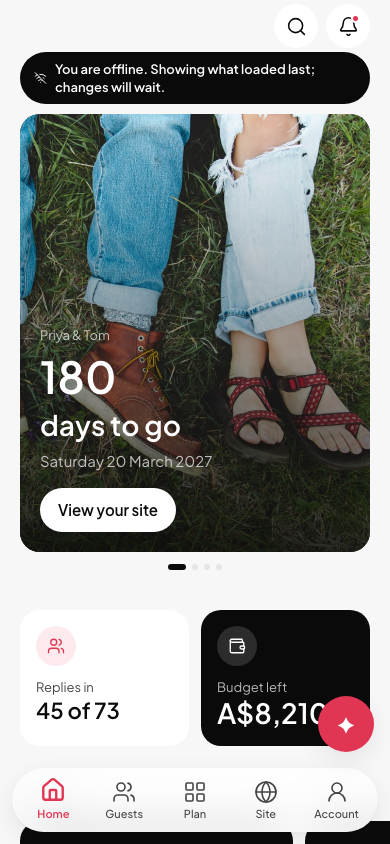
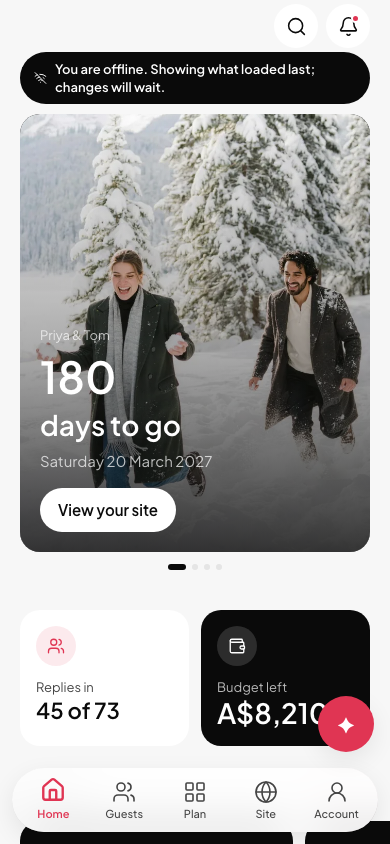
Mobile app goal 4, phase 1: one photo library, the app/ folder
The owner authorized the Cloudinary connector, so the app folder (cloud
dsr84xknv, 73 photos) was listed through the Admin API with no secret in
the terminal, and every photo was viewed as a thumbnail before assignment.
src/mobile/images.ts now names 45 slots and 45 distinct photos: each is
used once in the whole app, so nothing repeats on a screen. No todo slot
remains (the four Plan tiles, two empty states and the lock screen that
were color panels have photos). Crops rely on Cloudinary's face-aware
g_auto at the slot's ratio; the one photo with closed eyes in its focal
area was left out.

Every slot carries a `screen`, and /m/preview/images now reports "45
slots, 45 photos, no repeats" and turns a card red for any slot that
shares a photo with another on its screen (repeatedSlots()). The fixtures
build their cover, Our Story and moodboard pins from new fixture slots,
so no Cloudinary id lives anywhere in src/mobile/ but images.ts. Home
falls back to the manifest's hero slots when the couple has no photos,
instead of the universe's sample content; the couple's own photos still
lead the Home hero and the Site preview. imageUrl() percent-encodes the
accented ids. All 64 screens recaptured; MOBILE_APP.md carries the
assignment table.

diff --git a/src/mobile/images.ts b/src/mobile/images.ts
@@ -9,12 +9,20 @@
  * No Cloudinary id for a decorative slot may live anywhere else in
  * src/mobile/. /m/preview/images renders this file as a gallery.
  *
- * `todo: true` marks a slot that has no good photo yet and falls back to a
- * color panel. That list is the shopping list for the next batch.
+ * ONE LIBRARY. Every id here is one of the 73 photos in the Cloudinary
+ * folder `app` (cloud dsr84xknv), listed through the Admin API on
+ * 2026-09-21 and viewed one by one before it was assigned. Each photo is
+ * used once across the whole app, so no photo repeats on a screen; the
+ * `screen` field is what /m/preview/images checks. Crops are chosen so no
+ * face is cut (`focal`), and photos with closed eyes in the focal area were
+ * left out. The fixture stand-ins for the couple's own uploads are slots
+ * here too, so no Cloudinary id lives anywhere else in src/mobile/.
+ *
+ * `todo: true` marks a slot that has no good photo; none do now, and the
+ * gallery still shows the marker if one ever returns.
  *
  * STILLS ONLY. No component may derive motion from an id that starts with
- * DTS_. Public ids are never invented: each one is already served on the
- * marketing site or the universes page, and each was checked to resolve.
+ * DTS_. Public ids are never invented.
  */
 
 export interface ImageSlot {
@@ -23,6 +31,8 @@ export interface ImageSlot {
   alt: string;
   /** Where the slot is drawn. */
   usedIn: string;
+  /** The screen the slot is drawn on; two slots on one screen must not share an id. */
+  screen: string;
   /** The CSS pixel size the slot is drawn at, before 2x/3x. */
   size: { w: number; h: number };
   ratio: '4/5' | '4/3' | '16/9' | '1/1' | '3/2';
@@ -35,56 +45,57 @@ export interface ImageSlot {
 }
 
 export const IMAGES = {
-  /* ── Hero fallbacks (used only when the couple has no imagery and their universe has no sample) ── */
-  heroDays: { id: 'DTS_Slices_of_Summer_Mark_La_Montagne_Photos_ID2661_vb5omq', alt: 'Two friends lying in the grass at a summer wedding', usedIn: 'Home hero, days to go', size: { w: 358, h: 448 }, ratio: '4/5' },
-  heroReplies: { id: 'DTS_Like_a_Movie_Foster___Asher_Photos_ID1042_qaddk3', alt: 'A couple laughing together outdoors', usedIn: 'Home hero, replies', size: { w: 358, h: 448 }, ratio: '4/5' },
-  heroAva: { id: 'DTS_NU_NUPTIALS_Shauna_Summers_Photos_ID10310_o5dcie', alt: 'Guests dancing at a reception', usedIn: 'Home hero, from Ava', size: { w: 358, h: 448 }, ratio: '4/5' },
-  heroShare: { id: 'DTS_Tradition_Chris_Abatzis_Photos_ID9150_yiunlp', alt: 'A ceremony under trees', usedIn: 'Home hero, share your site', size: { w: 358, h: 448 }, ratio: '4/5' },
-
-  /* ── Plan hub tiles ── */
-  tileEventDetails: { id: 'DTS_Like_a_Movie_Foster___Asher_Photos_ID1042_qaddk3', alt: 'A couple laughing together outdoors', usedIn: 'Plan hub, Event details tile', size: { w: 171, h: 148 }, ratio: '4/3' },
-  tileGuests: { id: 'DTS_Slices_of_Summer_Mark_La_Montagne_Photos_ID2661_vb5omq', alt: 'Two friends lying in the grass', usedIn: 'Plan hub, Guest list tile', size: { w: 171, h: 148 }, ratio: '4/3' },
-  tileSeating: { id: 'DTS_Grand_Design_Daniel_Far%C3%B2_Photos_ID4152_auimyj', alt: 'A long dinner table set for a reception', usedIn: 'Plan hub, Seating tile', size: { w: 171, h: 148 }, ratio: '4/3' },
-  tileWeddingParty: { id: 'DTS_BANDITS_PALI_MENDEZ_Photos_ID14229_mhwb5h', alt: 'A group of friends in the evening light', usedIn: 'Plan hub, Wedding party tile', size: { w: 171, h: 148 }, ratio: '4/3' },
-  tileMoodboard: { id: 'DTS_DECADENT_Debora_Spanhol_Photos_ID12475_viqbsz', alt: 'A dessert table with cakes and fruit', usedIn: 'Plan hub, Moodboard tile', size: { w: 171, h: 148 }, ratio: '4/3' },
-  tileStyling: { id: 'DTS_Natural_Beauty_Rob_Christain_Crosby_Photos_ID2680_fnyjzd', alt: 'Someone holding a bouquet of flowers', usedIn: 'Plan hub, Styling tile', size: { w: 171, h: 148 }, ratio: '4/3' },
-  tileBeauty: { id: 'DTS_MOTHERLY_Shauna_Summers_Photos_ID10728_vz25fa', alt: 'Getting ready in the morning', usedIn: 'Plan hub, Beauty tile', size: { w: 171, h: 148 }, ratio: '4/3' },
-  tileFood: { id: 'v1779185603/DTS_Fine_Dining_Patrick_Chin_Photos_ID955_uoaegj', alt: 'A plated dinner', usedIn: 'Plan hub, Food & beverage tile', size: { w: 171, h: 148 }, ratio: '4/3' },
-  tileMusic: { id: 'DTS_PLAYER_TWO_JELLY_LUISE_Photos_ID13458_a53qq3', alt: 'A record player', usedIn: 'Plan hub, Music tile', size: { w: 171, h: 148 }, ratio: '4/3' },
-  tilePhotography: { id: 'DTS_Like_a_Movie_Foster___Asher_Photos_ID1042_qaddk3', alt: 'A couple laughing together outdoors', usedIn: 'Plan hub, Photography tile', size: { w: 171, h: 148 }, ratio: '4/3' },
-  tileGuestGifts: { id: 'DTS_SUITE_TALK_PALI_MENDEZ_Photos_ID14166_tqzysj', alt: 'A hotel suite with gifts laid out', usedIn: 'Plan hub, Guest gifts tile', size: { w: 171, h: 148 }, ratio: '4/3' },
-  tileMarketplace: { id: 'DTS_NU_NUPTIALS_Shauna_Summers_Photos_ID10310_o5dcie', alt: 'Guests dancing at a reception', usedIn: 'Plan hub, Marketplace tile', size: { w: 171, h: 148 }, ratio: '4/3' },
-  tileCeremony: { id: 'DTS_Tradition_Chris_Abatzis_Photos_ID9150_yiunlp', alt: 'A ceremony under trees', usedIn: 'Plan hub, Ceremony details tile', size: { w: 171, h: 148 }, ratio: '4/3' },
-  tileAccommodation: { id: 'DTS_Please_Do_Not_Disturb_Fanette_Guilloud_Photos_ID8854_xted4d', alt: 'A hotel room door with a do not disturb sign', usedIn: 'Plan hub, Accommodation tile', size: { w: 171, h: 148 }, ratio: '4/3' },
-  tileRegistry: { id: 'DTS_SUITE_TALK_PALI_MENDEZ_Photos_ID14166_tqzysj', alt: 'A hotel suite with gifts laid out', usedIn: 'Plan hub, Registry tile', size: { w: 171, h: 148 }, ratio: '4/3' },
-  tileHoneymoon: { id: 'v1779185631/DTS_Early_Honey_Moon_Tino_Renato_Photos_ID3576_v8vxs0', alt: 'A couple on holiday by the sea', usedIn: 'Plan hub, Honeymoon tile', size: { w: 171, h: 148 }, ratio: '4/3' },
-  tileSchedule: { id: '', alt: 'The wedding day timeline', usedIn: 'Plan hub, Schedule tile', size: { w: 171, h: 148 }, ratio: '4/3', todo: true, tone: 'neutral' },
-  tileBudget: { id: '', alt: 'Planning the budget', usedIn: 'Plan hub, Budget tile', size: { w: 171, h: 148 }, ratio: '4/3', todo: true, tone: 'neutral' },
-  tileVendors: { id: '', alt: 'Meeting a vendor', usedIn: 'Plan hub, My vendors tile', size: { w: 171, h: 148 }, ratio: '4/3', todo: true, tone: 'neutral' },
-  tileTransport: { id: '', alt: 'Guests arriving by car', usedIn: 'Plan hub, Transport tile', size: { w: 171, h: 148 }, ratio: '4/3', todo: true, tone: 'neutral' },
-
-  /* ── Keep planning cards (Home): reuse the tile images by feature; these two are extra ── */
-  keepPlanningDefault: { id: 'DTS_NU_NUPTIALS_Shauna_Summers_Photos_ID10310_o5dcie', alt: 'Guests dancing at a reception', usedIn: 'Home, keep planning card with no feature image', size: { w: 240, h: 180 }, ratio: '4/3' },
-
+  /* ── Home hero fallbacks: only when the couple has no imagery of their own ── */
+  heroDays: { id: 'hf_20260904_055316_4efc8628-77ed-4737-83bd-d0715cf99d43_eoixpp', alt: 'A couple in an arched doorway, forehead to forehead', usedIn: 'Home hero, days to go', screen: 'home', size: { w: 358, h: 448 }, ratio: '4/5', focal: '50% 30%' },
+  heroReplies: { id: 'DTS_BANDITS_PALI_MENDEZ_Photos_ID14215_bykr7b', alt: 'A couple walking hand in hand at sunset', usedIn: 'Home hero, replies', screen: 'home', size: { w: 358, h: 448 }, ratio: '4/5', focal: '50% 40%' },
+  heroAva: { id: 'hf_20260904_112950_ee43be91-2036-4b97-8ff9-f490913bfded_q6rrgk', alt: 'A couple laughing at a bar table', usedIn: 'Home hero, from Ava', screen: 'home', size: { w: 358, h: 448 }, ratio: '4/5', focal: '50% 35%' },
+  heroShare: { id: 'pin_marrakech_couple', alt: 'Friends on a rooftop at dusk with a tray of drinks', usedIn: 'Home hero, share your site', screen: 'home', size: { w: 358, h: 448 }, ratio: '4/5', focal: '50% 40%' },
+  keepPlanningDefault: { id: 'DTS_SNOWBOUND_Daniel_Farò_Photos_ID12430_hmrv0c', alt: 'A couple under a yellow blanket with mugs', usedIn: 'Home, keep planning card with no feature image', screen: 'home', size: { w: 240, h: 180 }, ratio: '4/3' },
+  /* ── Plan hub tiles (also the Home keep-planning cards, by feature) ── */
+  tileEventDetails: { id: 'DTS_ISOLA_Daniel_Farò_Photos_ID13172_fu4zfe', alt: 'Two hands and a pair of rings on a table', usedIn: 'Plan hub, Event details tile', screen: 'plan', size: { w: 171, h: 148 }, ratio: '4/3' },
+  tileSchedule: { id: 'DTS_INFLUENCER_Daniel_Farò_Photos_ID8195_hcbnri', alt: 'Planning on a laptop, phone in hand', usedIn: 'Plan hub, Schedule tile', screen: 'plan', size: { w: 171, h: 148 }, ratio: '4/3', focal: '50% 30%' },
+  tileGuests: { id: 'DTS_Tradition_Chris_Abatzis_Photos_ID9181_erzsi2', alt: 'Friends leaping over a hay bale', usedIn: 'Plan hub, Guest list tile', screen: 'plan', size: { w: 171, h: 148 }, ratio: '4/3' },
+  tileSeating: { id: 'DTS_Banquet_Daniel_Farò_Photos_ID5359_z6zqs8', alt: 'A dinner table from above, plates and wine', usedIn: 'Plan hub, Seating tile', screen: 'plan', size: { w: 171, h: 148 }, ratio: '4/3' },
+  tileWeddingParty: { id: 'DTS_VINYL_TASTE_Ivan_Resnik_Photos_ID14915_xtfezz', alt: 'Two friends laughing on a doorstep', usedIn: 'Plan hub, Wedding party tile', screen: 'plan', size: { w: 171, h: 148 }, ratio: '4/3', focal: '50% 30%' },
+  tileMoodboard: { id: 'DTS_Natural_Beauty_Rob_Christain_Crosby_Photos_ID2680_fnyjzd', alt: 'A bouquet held against pink', usedIn: 'Plan hub, Moodboard tile', screen: 'plan', size: { w: 171, h: 148 }, ratio: '4/3' },
+  tileStyling: { id: 'DTS_Please_Do_Not_Disturb_Fanette_Guilloud_Photos_ID8869_rpi65n', alt: 'A satin suit and a smile', usedIn: 'Plan hub, Styling tile', screen: 'plan', size: { w: 171, h: 148 }, ratio: '4/3', focal: '50% 25%' },
+  tileBeauty: { id: 'DTS_Please_Do_Not_Disturb_Fanette_Guilloud_Photos_ID8875_cwnpxl', alt: 'Getting ready at a bathroom mirror', usedIn: 'Plan hub, Beauty tile', screen: 'plan', size: { w: 171, h: 148 }, ratio: '4/3' },
+  tileFood: { id: 'DTS_LAST_SUPPER_PALI_MENDEZ_Photos_ID13819_kvl7b7', alt: 'A croquembouche and bowls of berries', usedIn: 'Plan hub, Food & beverage tile', screen: 'plan', size: { w: 171, h: 148 }, ratio: '4/3' },
+  tileMusic: { id: 'DTS_Pride_Agustín_Farías_Photos_ID5544_sgsmaz', alt: 'A party under falling tinsel', usedIn: 'Plan hub, Music tile', screen: 'plan', size: { w: 171, h: 148 }, ratio: '4/3' },
+  tilePhotography: { id: 'DTS_Young_Latin_Martin_Pisotti_Photos_ID6999_p6ixxt', alt: 'Two friends in a portrait', usedIn: 'Plan hub, Photography tile', screen: 'plan', size: { w: 171, h: 148 }, ratio: '4/3', focal: '50% 40%' },
+  tileGuestGifts: { id: 'DTS_Philia_Daniel_Farò_Photos_ID4659_pnnku3', alt: 'A hand holding a bottle of champagne', usedIn: 'Plan hub, Guest gifts tile', screen: 'plan', size: { w: 171, h: 148 }, ratio: '4/3' },
+  tileVendors: { id: 'DTS_MOTHERLY_Shauna_Summers_Photos_ID10728_vz25fa', alt: 'Arranging flowers in a vase', usedIn: 'Plan hub, My vendors tile', screen: 'plan', size: { w: 171, h: 148 }, ratio: '4/3', focal: '50% 35%' },
+  tileMarketplace: { id: 'marrakech-hero_sbciuz', alt: 'A couple in a souk', usedIn: 'Plan hub, Marketplace tile', screen: 'plan', size: { w: 171, h: 148 }, ratio: '4/3' },
+  tileCeremony: { id: 'DTS_SUITE_TALK_PALI_MENDEZ_Photos_ID14213_wbsnwi', alt: 'A couple on the steps in their wedding clothes', usedIn: 'Plan hub, Ceremony details tile', screen: 'plan', size: { w: 171, h: 148 }, ratio: '4/3', focal: '50% 40%' },
+  tileTransport: { id: 'hf_20260904_063711_294c70f5-51b6-4194-bef1-72f6cf26aa3f_hc1r7a', alt: 'A couple in the back of a car at night', usedIn: 'Plan hub, Transport tile', screen: 'plan', size: { w: 171, h: 148 }, ratio: '4/3' },
+  tileAccommodation: { id: 'DTS_Please_Do_Not_Disturb_Fanette_Guilloud_Photos_ID8854_-_Print_ew6e2a', alt: 'Two in bathrobes on a hotel bed', usedIn: 'Plan hub, Accommodation tile', screen: 'plan', size: { w: 171, h: 148 }, ratio: '4/3' },
+  tileBudget: { id: 'DTS_SOJOURN_Franco_Dupuy_Photos_ID10730_je7niq', alt: 'Working on a laptop, racket by the wall', usedIn: 'Plan hub, Budget tile', screen: 'plan', size: { w: 171, h: 148 }, ratio: '4/3', focal: '50% 35%' },
+  tileRegistry: { id: 'DTS_THE_INTERN_Shauna_Summers_Photos_ID11406_giy6nx', alt: 'Carrying an armful of wrapped parcels', usedIn: 'Plan hub, Registry tile', screen: 'plan', size: { w: 171, h: 148 }, ratio: '4/3' },
+  tileHoneymoon: { id: 'tulum-hero_nbr4op', alt: 'A couple walking along a beach', usedIn: 'Plan hub, Honeymoon tile', screen: 'plan', size: { w: 171, h: 148 }, ratio: '4/3' },
   /* ── Empty states ── */
-  emptyVendors: { id: 'DTS_Fine_Dining_Patrick_Chin_Photos_ID955_uoaegj', alt: 'A plated dinner', usedIn: 'My vendors, empty state', size: { w: 326, h: 183 }, ratio: '16/9' },
-  emptyGuests: { id: '', alt: 'Friends together', usedIn: 'Guests, empty state', size: { w: 326, h: 183 }, ratio: '16/9', todo: true, tone: 'tint' },
-  emptyMoodboard: { id: 'DTS_DECADENT_Debora_Spanhol_Photos_ID12475_viqbsz', alt: 'A dessert table with cakes and fruit', usedIn: 'Moodboard, empty state', size: { w: 326, h: 183 }, ratio: '16/9' },
-  emptyRegistry: { id: '', alt: 'A wrapped gift', usedIn: 'Registry, empty state', size: { w: 326, h: 183 }, ratio: '16/9', todo: true, tone: 'tint' },
-
-  /* ── Launch ── */
-  splash: { id: 'DTS_Like_a_Movie_Foster___Asher_Photos_ID1042_qaddk3', alt: 'A couple laughing together outdoors', usedIn: 'In-app splash, behind the logo (once per app open)', size: { w: 390, h: 844 }, ratio: '4/5', focal: '50% 30%' },
-
-  /* ── First run ── */
-  welcome1: { id: 'DTS_Like_a_Movie_Foster___Asher_Photos_ID1042_qaddk3', alt: 'A couple laughing together outdoors', usedIn: 'Welcome, screen 1', size: { w: 390, h: 844 }, ratio: '4/5', focal: '50% 35%' },
-  welcome2: { id: 'DTS_Slices_of_Summer_Mark_La_Montagne_Photos_ID2661_vb5omq', alt: 'Two friends lying in the grass', usedIn: 'Welcome, screen 2', size: { w: 390, h: 844 }, ratio: '4/5' },
-  welcome3: { id: 'DTS_NU_NUPTIALS_Shauna_Summers_Photos_ID10310_o5dcie', alt: 'Guests dancing at a reception', usedIn: 'Welcome, screen 3', size: { w: 390, h: 844 }, ratio: '4/5' },
-  login: { id: 'DTS_Tradition_Chris_Abatzis_Photos_ID9150_yiunlp', alt: 'A ceremony under trees', usedIn: 'Mobile login, top panel', size: { w: 390, h: 260 }, ratio: '3/2', focal: '50% 40%' },
-  priming: { id: 'DTS_BANDITS_PALI_MENDEZ_Photos_ID14229_mhwb5h', alt: 'A group of friends in the evening light', usedIn: 'Notification priming, top panel', size: { w: 390, h: 260 }, ratio: '3/2' },
-  lock: { id: '', alt: 'The Openinvite mark', usedIn: 'Face ID lock screen (uses the couple\'s own photo first, then ink)', size: { w: 390, h: 844 }, ratio: '4/5', todo: true, tone: 'ink' },
-
+  emptyVendors: { id: 'DTS_Banquet_Daniel_Farò_Photos_ID5367_hgnaqg', alt: 'Hands serving plates at a counter', usedIn: 'My vendors, empty state', screen: 'vendors', size: { w: 326, h: 183 }, ratio: '16/9' },
+  emptyGuests: { id: 'DTS_BEHIND_THE_SCENES_Shauna_Summers_Photos_ID8234_esice8', alt: 'Two friends laughing over a phone', usedIn: 'Guests, empty state', screen: 'guests', size: { w: 326, h: 183 }, ratio: '16/9', focal: '50% 30%' },
+  emptyMoodboard: { id: 'DTS_DECADENT_Debora_Spanhol_Photos_ID12475_viqbsz', alt: 'A dessert table of pink cakes', usedIn: 'Moodboard, empty state', screen: 'moodboard', size: { w: 326, h: 183 }, ratio: '16/9' },
+  emptyRegistry: { id: 'DTS_WANDER_Jessica_MADAVO_Photos_ID12138_dpboww', alt: 'A flower stall in full bloom', usedIn: 'Registry, empty state', screen: 'registry', size: { w: 326, h: 183 }, ratio: '16/9' },
+  /* ── Launch and first run ── */
+  splash: { id: 'kyoto-hero_vlwgtw', alt: 'A couple walking through a bamboo grove', usedIn: 'In-app splash, behind the logo (once per app open)', screen: 'splash', size: { w: 390, h: 844 }, ratio: '4/5', focal: '50% 50%' },
+  welcome1: { id: 'DTS_BANDITS_PALI_MENDEZ_Photos_ID14280_cddisg', alt: 'A couple under a wide sky', usedIn: 'Welcome, screen 1', screen: 'welcome', size: { w: 390, h: 844 }, ratio: '4/5', focal: '50% 35%' },
+  welcome2: { id: 'DTS_Like_a_Movie_Foster___Asher_Photos_ID1041_mudxwa', alt: 'Carrying each other through the snow', usedIn: 'Welcome, screen 2', screen: 'welcome', size: { w: 390, h: 844 }, ratio: '4/5', focal: '50% 40%' },
+  welcome3: { id: 'DTS_NU_NUPTIALS_Shauna_Summers_Photos_ID10310_o5dcie', alt: 'Sharing cake at the party', usedIn: 'Welcome, screen 3', screen: 'welcome', size: { w: 390, h: 844 }, ratio: '4/5', focal: '50% 40%' },
+  login: { id: 'DTS_First_Date_Marlen_Stahlhuth_Photos_ID4795_upbdbr', alt: 'A couple sitting on a wall under the sky', usedIn: 'Mobile login, top panel', screen: 'login', size: { w: 390, h: 260 }, ratio: '3/2', focal: '50% 40%' },
+  priming: { id: 'DTS_Weirdly_Ever_After_Agustín_Farías_Photos_ID8960_nspx4l', alt: 'A kiss on the cheek against orange', usedIn: 'Notification priming, top panel', screen: 'priming', size: { w: 390, h: 260 }, ratio: '3/2', focal: '50% 35%' },
+  lock: { id: 'DTS_Tradition_Chris_Abatzis_Photos_ID9150_yiunlp', alt: 'A couple in a mountain meadow', usedIn: 'Face ID lock screen (the couple\'s own photo first)', screen: 'lock', size: { w: 390, h: 844 }, ratio: '4/5' },
   /* ── Preview artifacts ── */
-  lockScreenWallpaper: { id: 'DTS_Slices_of_Summer_Mark_La_Montagne_Photos_ID2661_vb5omq', alt: 'Two friends lying in the grass', usedIn: '/m/preview/push wallpaper (the couple\'s own photo when they have one)', size: { w: 390, h: 844 }, ratio: '4/5' },
+  lockScreenWallpaper: { id: 'hf_20260905_005926_9ff8ad93-21a0-4c2f-8f41-94cd140aa0ee_ib1qrr', alt: 'Steps down to the sea between flowering walls', usedIn: '/m/preview/push wallpaper (the couple\'s own photo when they have one)', screen: 'push', size: { w: 390, h: 844 }, ratio: '4/5' },
+  /* ── Fixture stand-ins for the couple\'s own uploads (preview and demo only) ── */
+  fixtureCover: { id: 'aspen-hero_zeblit', alt: 'A couple running through snow between pines', usedIn: 'Fixture cover photo: Home hero, Site preview, Account', screen: 'home', size: { w: 390, h: 488 }, ratio: '4/5', focal: '50% 45%' },
+  fixtureStory1: { id: 'florence-hero_up7h6h', alt: 'A couple wheeling a bicycle down a stone lane', usedIn: 'Fixture Our Story photo 1: Home hero', screen: 'home', size: { w: 390, h: 488 }, ratio: '4/5', focal: '50% 45%' },
+  fixtureStory2: { id: 'hf_20260917_170201_de2267ae-fe05-4cfc-8a7c-5733336600d0_ybyaaj', alt: 'A couple dressed up on a bridge at night', usedIn: 'Fixture Our Story photo 2: Home hero', screen: 'home', size: { w: 390, h: 488 }, ratio: '4/5', focal: '50% 35%' },
+  fixtureStory3: { id: 'hf_20260905_002721_b09968b5-48aa-43ca-ad4f-76ac3cee3ccf_ly1f2r', alt: 'A couple against a city skyline', usedIn: 'Fixture Our Story photo 3: Home hero', screen: 'home', size: { w: 390, h: 488 }, ratio: '4/5', focal: '50% 35%' },
+  fixturePin1: { id: 'DTS_TERRA_Chris_Abatzis_Photos_ID13220_kxcbio', alt: 'Lilies in red light', usedIn: 'Fixture moodboard pin 1', screen: 'moodboard', size: { w: 170, h: 170 }, ratio: '1/1' },
+  fixturePin2: { id: 'DTS_Quiet_Glamour_DTS_Studio_Photos_ID8376_ove6fd', alt: 'Flowers carried down a street', usedIn: 'Fixture moodboard pin 2', screen: 'moodboard', size: { w: 170, h: 170 }, ratio: '1/1' },
+  fixturePin3: { id: 'DTS_FIRST_ROUND_JELLY_LUISE_Photos_ID10636_otundm', alt: 'A cocktail in a coupe', usedIn: 'Fixture moodboard pin 3', screen: 'moodboard', size: { w: 170, h: 170 }, ratio: '1/1' },
+  fixturePin4: { id: 'DTS_CURATIVE_Chris_Abatzis_Photos_ID7678_dlsgrm', alt: 'Two white shirts, arms linked', usedIn: 'Fixture moodboard pin 4', screen: 'moodboard', size: { w: 170, h: 170 }, ratio: '1/1' },
 } as const satisfies Record<string, ImageSlot>;
 
 export type ImageKey = keyof typeof IMAGES;
@@ -94,7 +105,9 @@ export const CLOUD = 'https://res.cloudinary.com/dsr84xknv/image/upload';
 /** The delivery URL for a slot, or '' when it is todo (so SmartImage draws the panel). */
 export function imageUrl(key: ImageKey): string {
   const slot = IMAGES[key] as ImageSlot;
-  return slot.id ? `${CLOUD}/${slot.id}` : '';
+  // Some ids carry accented letters (Farò, Agustín); encode per segment so
+  // the URL is valid everywhere and round-trips through deliver().
+  return slot.id ? `${CLOUD}/${slot.id.split('/').map(encodeURIComponent).join('/')}` : '';
 }
 
 /** Every slot, for the gallery and the docs. */
@@ -105,4 +118,20 @@ export function allSlots(): Array<ImageSlot & { key: ImageKey }> {
 /** The slots still waiting for a photo. */
 export function todoSlots() {
   return allSlots().filter((s) => s.todo);
+}
+
+/** Slots on the same screen that share a photo: what the gallery flags. Empty is the rule. */
+export function repeatedSlots(): Array<{ id: string; screen: string; keys: ImageKey[] }> {
+  const seen = new Map<string, ImageKey[]>();
+  for (const s of allSlots()) {
+    if (!s.id) continue;
+    const k = `${s.screen}::${s.id}`;
+    seen.set(k, [...(seen.get(k) || []), s.key]);
+  }
+  return [...seen.entries()].filter(([, keys]) => keys.length > 1).map(([k, keys]) => ({ screen: k.split('::')[0], id: k.split('::')[1], keys }));
+}
+
+/** Every photo used, for the docs and the once-only check. */
+export function usedIds(): string[] {
+  return allSlots().map((s) => s.id).filter(Boolean);
 }

diff --git a/src/mobile/screens/preview/ImageGalleryScreen.jsx b/src/mobile/screens/preview/ImageGalleryScreen.jsx
@@ -2,26 +2,31 @@ import React from 'react';
 import { ImageOff } from 'lucide-react';
 import Screen from '../../shell/Screen';
 import { SmartImage, StatusPill, PanelCard } from '../../ui';
-import { allSlots, todoSlots, CLOUD } from '../../images';
+import { allSlots, todoSlots, repeatedSlots, usedIds, imageUrl } from '../../images';
 
 /**
  * /m/preview/images, dev only: every decorative slot from images.ts with the
- * current image, where it is used, the pixel size to supply, and a clear
- * marker on the ones still waiting for a photo. The shopping list for the
- * next batch.
+ * assigned photo from the app/ folder, where it is used, the pixel size to
+ * supply, and a clear marker on any slot that repeats a photo already on
+ * its screen, or on any slot still waiting for a photo (none, as of goal 4).
  */
 export default function ImageGalleryScreen({ back }) {
   const slots = allSlots();
   const todo = todoSlots();
+  const repeats = repeatedSlots();
+  const repeatedKeys = new Set(repeats.flatMap((r) => r.keys));
+  const ids = usedIds();
+  const distinct = new Set(ids).size;
+  const subtitle = `${slots.length} slots, ${distinct} photos${todo.length ? `, ${todo.length} need a photo` : ''}${repeats.length ? `, ${repeats.length} repeated on a screen` : ', no repeats'}`;
   return (
-    <Screen title="Image slots" subtitle={`${slots.length} slots, ${todo.length} need a photo`} back={back}>
+    <Screen title="Image slots" subtitle={subtitle} back={back}>
       <div className="oi-m-stack oi-m-stack--24">
-        <PanelCard tone="neutral" label="How to read this" body="Each card is one place the app shows a photo the couple did not upload. Supply the size shown at 3x for the sharpest result. Change the id in src/mobile/images.ts and it changes everywhere." />
+        <PanelCard tone="neutral" label="How to read this" body="Each card is one place the app shows a photo the couple did not upload. Every photo comes from the app folder in Cloudinary and is used once, so nothing repeats on a screen; a card turns red if that stops being true. Change the id in src/mobile/images.ts and it changes everywhere." />
         {slots.map((s) => (
           <div key={s.key} className="oi-m-card oi-m-card--flush">
             <div style={{ padding: 8 }}>
               {s.id ? (
-                <SmartImage src={`${CLOUD}/${s.id}`} alt={s.alt} width={342} ratio={s.ratio} style={s.focal ? { objectPosition: s.focal } : undefined} />
+                <SmartImage src={imageUrl(s.key)} alt={s.alt} width={342} ratio={s.ratio} style={s.focal ? { objectPosition: s.focal } : undefined} />
               ) : (
                 <div style={{ aspectRatio: s.ratio.replace('/', ' / '), borderRadius: 'var(--m-r-image)', background: s.tone === 'ink' ? 'var(--m-ink)' : s.tone === 'tint' ? 'var(--m-tint)' : 'var(--m-neutral)', display: 'flex', alignItems: 'center', justifyContent: 'center', color: s.tone === 'ink' ? '#FFFFFF' : 'var(--m-text-2)' }}>
                   <ImageOff size={28} strokeWidth={1.5} />
@@ -31,9 +36,9 @@ export default function ImageGalleryScreen({ back }) {
             <div style={{ padding: '8px 16px 16px', display: 'flex', flexDirection: 'column', gap: 6 }}>
               <div style={{ display: 'flex', justifyContent: 'space-between', alignItems: 'center', gap: 8 }}>
                 <span className="oi-m-body oi-m-strong">{s.key}</span>
-                {s.todo ? <StatusPill tone="no">Needs photo</StatusPill> : <StatusPill tone="ok">In use</StatusPill>}
+                {s.todo ? <StatusPill tone="no">Needs photo</StatusPill> : repeatedKeys.has(s.key) ? <StatusPill tone="no">Repeated on {s.screen}</StatusPill> : <StatusPill tone="ok">In use</StatusPill>}
               </div>
-              <div className="oi-m-meta">{s.usedIn}</div>
+              <div className="oi-m-meta">{s.usedIn} (screen: {s.screen})</div>
               <div className="oi-m-meta">Drawn at {s.size.w} by {s.size.h}, ratio {s.ratio}. Supply {s.size.w * 3} by {s.size.h * 3} or larger{s.focal ? `, focal point ${s.focal}` : ''}.</div>
               <div className="oi-m-meta" style={{ overflowWrap: 'anywhere' }}>{s.id ? s.id : 'No id yet'}</div>
               <div className="oi-m-meta">Alt: {s.alt}</div>

diff --git a/src/mobile/fixtures/index.js b/src/mobile/fixtures/index.js
@@ -6,6 +6,8 @@
  * same shapes they get from the containers. Deterministic: no Math.random.
  */
 
+import { imageUrl } from '../images';
+
 const FIRST = ['Amelia', 'Oliver', 'Charlotte', 'Jack', 'Isla', 'Noah', 'Mia', 'William', 'Grace', 'Leo', 'Ava', 'Henry', 'Chloe', 'Thomas', 'Zoe', 'Lucas', 'Ruby', 'Ethan', 'Sophie', 'Harrison', 'Evie', 'Oscar', 'Matilda', 'Hunter', 'Ivy', 'Levi', 'Willow', 'Archie', 'Harper', 'Cooper', 'Ella', 'Max', 'Lily', 'Finn', 'Sienna', 'Elijah', 'Layla', 'Mason', 'Hannah', 'Xavier'];
 const LAST = ['Nguyen', 'Smith', 'Williams', 'Chen', 'Brown', 'Taylor', 'Jones', 'Singh', 'Wilson', 'Lee', 'Martin', 'Kelly', 'Thompson', 'Ryan', 'Walker', 'Kaur', 'Robinson', 'Scott', 'Anderson', 'White'];
 const CATEGORIES = ['family', 'friends', 'colleagues', 'partners_family', 'partners_friends'];
@@ -29,8 +31,8 @@ export const FIXTURE_WEDDING = {
   activeUniverse: 'tulum',
   slug: 'priya-and-tom',
   websiteEnabled: true,
-  coverPhoto: 'https://res.cloudinary.com/dsr84xknv/image/upload/DTS_Slices_of_Summer_Mark_La_Montagne_Photos_ID2661_vb5omq',
-  ourStoryContent: { photos: ['https://res.cloudinary.com/dsr84xknv/image/upload/DTS_Like_a_Movie_Foster___Asher_Photos_ID1042_qaddk3', 'https://res.cloudinary.com/dsr84xknv/image/upload/DTS_NU_NUPTIALS_Shauna_Summers_Photos_ID10310_o5dcie', 'https://res.cloudinary.com/dsr84xknv/image/upload/DTS_Tradition_Chris_Abatzis_Photos_ID9150_yiunlp'] },
+  coverPhoto: imageUrl('fixtureCover'),
+  ourStoryContent: { photos: [imageUrl('fixtureStory1'), imageUrl('fixtureStory2'), imageUrl('fixtureStory3')] },
   guestCount: 82,
   mainCeremony: { venue: 'The Fig Tree', address: '4 Beach Rd, Byron Bay NSW 2481', time: '15:00' },
   reception: { venue: 'The Fig Tree', address: '4 Beach Rd, Byron Bay NSW 2481', time: '18:00' },
@@ -165,10 +167,10 @@ export const FIXTURE_VOWS = [
 ];
 
 export const FIXTURE_MOODBOARD = [
-  { id: 'mb1', title: 'Arbour with native greenery', category: 'flowers', image_url: 'https://res.cloudinary.com/dsr84xknv/image/upload/DTS_Natural_Beauty_Rob_Christain_Crosby_Photos_ID2680_fnyjzd', tags: ['ceremony', 'green'] },
-  { id: 'mb2', title: 'Long tables, linen, candles', category: 'decor', image_url: 'https://res.cloudinary.com/dsr84xknv/image/upload/DTS_Grand_Design_Daniel_Far%C3%B2_Photos_ID4152_auimyj', tags: ['reception'] },
-  { id: 'mb3', title: 'Slip dress, no veil', category: 'dress', image_url: 'https://res.cloudinary.com/dsr84xknv/image/upload/DTS_DECADENT_Debora_Spanhol_Photos_ID12475_viqbsz', tags: ['attire'] },
-  { id: 'mb4', title: 'Golden hour portraits', category: 'other', image_url: 'https://res.cloudinary.com/dsr84xknv/image/upload/DTS_Like_a_Movie_Foster___Asher_Photos_ID1042_qaddk3', tags: ['photos'] },
+  { id: 'mb1', title: 'Lilies in red light', category: 'flowers', image_url: imageUrl('fixturePin1'), tags: ['ceremony', 'evening'] },
+  { id: 'mb2', title: 'Flowers carried down the street', category: 'decor', image_url: imageUrl('fixturePin2'), tags: ['reception'] },
+  { id: 'mb3', title: 'A coupe for cocktail hour', category: 'other', image_url: imageUrl('fixturePin3'), tags: ['drinks'] },
+  { id: 'mb4', title: 'White shirts, arms linked', category: 'dress', image_url: imageUrl('fixturePin4'), tags: ['attire'] },
 ];
 
 export const FIXTURE_TABLES = [

diff --git a/src/mobile/screens/home/HomeContainer.jsx b/src/mobile/screens/home/HomeContainer.jsx
@@ -11,7 +11,7 @@ import { usePlanData } from '../../data/plan';
 import { taskWrites } from '../../data/wedding';
 import { hapticLight, shareLink } from '../../native';
 import { siteUrlFor } from '../../lib/links';
-import { coupleImages } from '../../lib/images';
+import { ownImages, imageUrl } from '../../lib/images';
 import { leastTouched, featureByKey } from '../../features/registry';
 import { summariseBudget } from '../plan/BudgetScreen';
 
@@ -28,7 +28,10 @@ export default function HomeContainer() {
   const firstName = (details?.couple1Name || user?.full_name || '').split(' ')[0];
   const coupleName = details?.couple1Name && details?.couple2Name ? `${details.couple1Name} & ${details.couple2Name}` : details?.couple1Name || details?.couple2Name || '';
   const daysToGo = details?.weddingDate ? daysUntilWedding(details.weddingDate) : null;
-  const images = useMemo(() => coupleImages(details), [details]);
+  // The couple's own photos take priority here and on the Site preview; with
+  // none, the hero draws from the app/ folder (goal 4, phase 1), never from
+  // the universe's sample content.
+  const images = useMemo(() => { const own = ownImages(details); return own.length ? own : [imageUrl('heroDays'), imageUrl('heroReplies'), imageUrl('heroAva'), imageUrl('heroShare')]; }, [details]);
   const siteUrl = siteUrlFor(details);
 
   const rsvp = useMemo(() => {

diff --git a/src/mobile/lib/images.js b/src/mobile/lib/images.js
@@ -77,6 +77,9 @@ export function coupleImages(details) {
   return [];
 }
 
+/** The couple's own imagery only: cover photo, site photo blocks, Our Story photos. */
+export function ownImages(d) { return imagesFrom(d); }
+
 function imagesFrom(d) {
   if (!d) return [];
   const out = [];

diff --git a/MOBILE_APP.md b/MOBILE_APP.md
@@ -313,11 +313,21 @@ Also observed:
 
 ## Goal 4: the owner's phone-test fixes (2026-09-21)
 
-Built against `MOBILE_APP_GOAL_4.md`. Phases 2 to 6 are done; phase 1 is paused on the owner.
+Built against `MOBILE_APP_GOAL_4.md`. All six phases are done.
 
-### Photos: paused on the owner
+### Photos: one library, the `app/` folder
 
-No Cloudinary admin credentials exist on this machine (`CLOUDINARY_URL`, `CLOUDINARY_API_KEY`, `CLOUDINARY_API_SECRET`, `CLOUDINARY_CLOUD_NAME` unset, no `.env`), so the `app/` folder (cloud `dsr84xknv`, 72 photos) could not be listed, and per the brief nothing was guessed or scraped. **Waiting on the owner: the list of public IDs in `app/`.** Once it arrives: view each photo as a thumbnail, rewrite `src/mobile/images.ts` so every decorative slot (the splash included) draws from `app/` with no repeat on a screen and each photo used once where possible, faces never cut by the crop, route the fixtures' stand-ins for the couple's own uploads (cover photo, Our Story, moodboard pins in `src/mobile/fixtures/index.js`) through the manifest so no Cloudinary ID lives outside `images.ts`, remove the ids from other folders, and make `/m/preview/images` flag repeats. Until then the manifest still carries the previous DTS_ ids, eight `todo` slots, and repeats across screens (the couple-laughing photo is the splash, a Home hero, the Event details tile and welcome screen 1).
+The owner authorized the Cloudinary connector, so the `app` folder (cloud `dsr84xknv`) was listed through the Admin API with no secret reaching the terminal: 73 photos, 49 from the DTS sets, 18 generated, 6 universe heroes. Every one was viewed as a thumbnail before assignment. `src/mobile/images.ts` now names 45 slots and 45 distinct photos; each photo is used once in the whole app, so nothing repeats on a screen, and `/m/preview/images` reads "45 slots, 45 photos, no repeats" and turns a card red if that ever changes (`repeatedSlots()`, keyed by the new `screen` field). No `todo` slot remains; the four Plan tiles, two empty states and the lock screen that were color panels have photos. Crops use Cloudinary's face-aware `g_auto` at the slot's ratio, so no face is cut; the one photo with closed eyes in its focal area (a couple in bed) was left out, as were the remaining 27.
+
+| Slots | Photo (alt, then the public id stem) |
+|---|---|
+| Home hero fallbacks | heroDays: A couple in an arched doorway, forehead to forehead (hf 20260904 055316 4efc8628-77ed-4737-83bd-d0715cf99d43); heroReplies: A couple walking hand in hand at sunset (BANDITS PALI MENDEZ 14215); heroAva: A couple laughing at a bar table (hf 20260904 112950 ee43be91-2036-4b97-8ff9-f490913bfded); heroShare: Friends on a rooftop at dusk with a tray of drinks (pin marrakech); keepPlanningDefault: A couple under a yellow blanket with mugs (SNOWBOUND Daniel Farò 12430) |
+| Plan hub tiles | tileEventDetails: Two hands and a pair of rings on a table (ISOLA Daniel Farò 13172); tileSchedule: Planning on a laptop, phone in hand (INFLUENCER Daniel Farò 8195); tileGuests: Friends leaping over a hay bale (Tradition Chris Abatzis 9181); tileSeating: A dinner table from above, plates and wine (Banquet Daniel Farò 5359); tileWeddingParty: Two friends laughing on a doorstep (VINYL TASTE Ivan Resnik 14915); tileMoodboard: A bouquet held against pink (Natural Beauty Rob Christain Crosby 2680); tileStyling: A satin suit and a smile (Please Do Not Disturb Fanette Guilloud 8869); tileBeauty: Getting ready at a bathroom mirror (Please Do Not Disturb Fanette Guilloud 8875); tileFood: A croquembouche and bowls of berries (LAST SUPPER PALI MENDEZ 13819); tileMusic: A party under falling tinsel (Pride Agustín Farías 5544); tilePhotography: Two friends in a portrait (Young Latin Martin Pisotti 6999); tileGuestGifts: A hand holding a bottle of champagne (Philia Daniel Farò 4659); tileVendors: Arranging flowers in a vase (MOTHERLY Shauna Summers 10728); tileMarketplace: A couple in a souk (marrakech-hero); tileCeremony: A couple on the steps in their wedding clothes (SUITE TALK PALI MENDEZ 14213); tileTransport: A couple in the back of a car at night (hf 20260904 063711 294c70f5-51b6-4194-bef1-72f6cf26aa3f); tileAccommodation: Two in bathrobes on a hotel bed (Please Do Not Disturb Fanette Guilloud 8854 - Print); tileBudget: Working on a laptop, racket by the wall (SOJOURN Franco Dupuy 10730); tileRegistry: Carrying an armful of wrapped parcels (THE INTERN Shauna Summers 11406); tileHoneymoon: A couple walking along a beach (tulum-hero) |
+| Empty states | emptyVendors: Hands serving plates at a counter (Banquet Daniel Farò 5367); emptyGuests: Two friends laughing over a phone (BEHIND THE SCENES Shauna Summers 8234); emptyMoodboard: A dessert table of pink cakes (DECADENT Debora Spanhol 12475); emptyRegistry: A flower stall in full bloom (WANDER Jessica MADAVO 12138) |
+| Launch and first run | splash: A couple walking through a bamboo grove (kyoto-hero); welcome1: A couple under a wide sky (BANDITS PALI MENDEZ 14280); welcome2: Carrying each other through the snow (Like a Movie Foster   Asher 1041); welcome3: Sharing cake at the party (NU NUPTIALS Shauna Summers 10310); login: A couple sitting on a wall under the sky (First Date Marlen Stahlhuth 4795); priming: A kiss on the cheek against orange (Weirdly Ever After Agustín Farías 8960); lock: A couple in a mountain meadow (Tradition Chris Abatzis 9150) |
+| Preview artifacts | lockScreenWallpaper: Steps down to the sea between flowering walls (hf 20260905 005926 9ff8ad93-21a0-4c2f-8f41-94cd140aa0ee) |
+| Fixture stand-ins for the couple's own uploads | fixtureCover: A couple running through snow between pines (aspen-hero); fixtureStory1: A couple wheeling a bicycle down a stone lane (florence-hero); fixtureStory2: A couple dressed up on a bridge at night (hf 20260917 170201 de2267ae-fe05-4cfc-8a7c-5733336600d0); fixtureStory3: A couple against a city skyline (hf 20260905 002721 b09968b5-48aa-43ca-ad4f-76ac3cee3ccf); fixturePin1: Lilies in red light (TERRA Chris Abatzis 13220); fixturePin2: Flowers carried down a street (Quiet Glamour DTS Studio 8376); fixturePin3: A cocktail in a coupe (FIRST ROUND JELLY LUISE 10636); fixturePin4: Two white shirts, arms linked (CURATIVE Chris Abatzis 7678) |
+In real mode the couple's own photos still lead the Home hero and the Site preview; with none, Home now falls back to the manifest's hero slots rather than the universe's sample content (`HomeContainer`, `ownImages()`). The fixtures build their cover, Our Story and moodboard URLs from the manifest, so no Cloudinary id lives anywhere in `src/mobile/` but `images.ts`. Ids with accented letters are percent-encoded by `imageUrl()`.
 
 ### Launch sequence
 
@@ -348,13 +358,12 @@ One `ActivityRow` for both: a 36px tile in a soft tint of the type color, or the
 
 - `npm run build` passes before each of the five commits. `npm run mobile:demo` rebuilds and syncs the demo bundle.
 - 64 screens at 390 by 844 in `mobile-screenshots/` (two new: `launch-splash`, `launch-greeting`), all passing the width, 44px, 16px and shadow probe. The probe exempts the two launch screens from its "more than 100 characters" check, since they are meant to be sparse.
-- Inside `src/mobile/`: no size above the scale except the lock-screen mock's clock, which imitates iOS; no tile subtitle; no `tabular-nums`; no color outside DESIGN_SPEC.md (plus the three status pairs); Cloudinary ids only in `images.ts` and, until phase 1, the fixtures' stand-ins for the couple's uploads.
+- Inside `src/mobile/`: no size above the scale except the lock-screen mock's clock, which imitates iOS; no tile subtitle; no `tabular-nums`; no color outside DESIGN_SPEC.md (plus the three status pairs); Cloudinary ids only in `images.ts`; no photo repeated on a screen (45 slots, 45 distinct photos).
 - `git diff main --stat`: new files, plus the allowed edits (`src/App.jsx` route registration, `package.json`, `capacitor.config.ts`, `assets/`, `ios/`, `android/`) and the branch's own `scripts/mobile-preview-screenshots.mjs`.
 
 ### Still waiting on the owner (goal 4)
 
-1. The `app/` folder's public IDs (phase 1, above).
-2. Everything from goals 1 to 3 still open: CORS for the shell origin, the Base44 redirect URL, the push schema, the Apple Developer Program for TestFlight and push.
+Nothing from goal 4. Still open from goals 1 to 3: CORS for the shell origin, the Base44 redirect URL, the push schema, the Apple Developer Program for TestFlight and push.
 
 ## How to run
 
